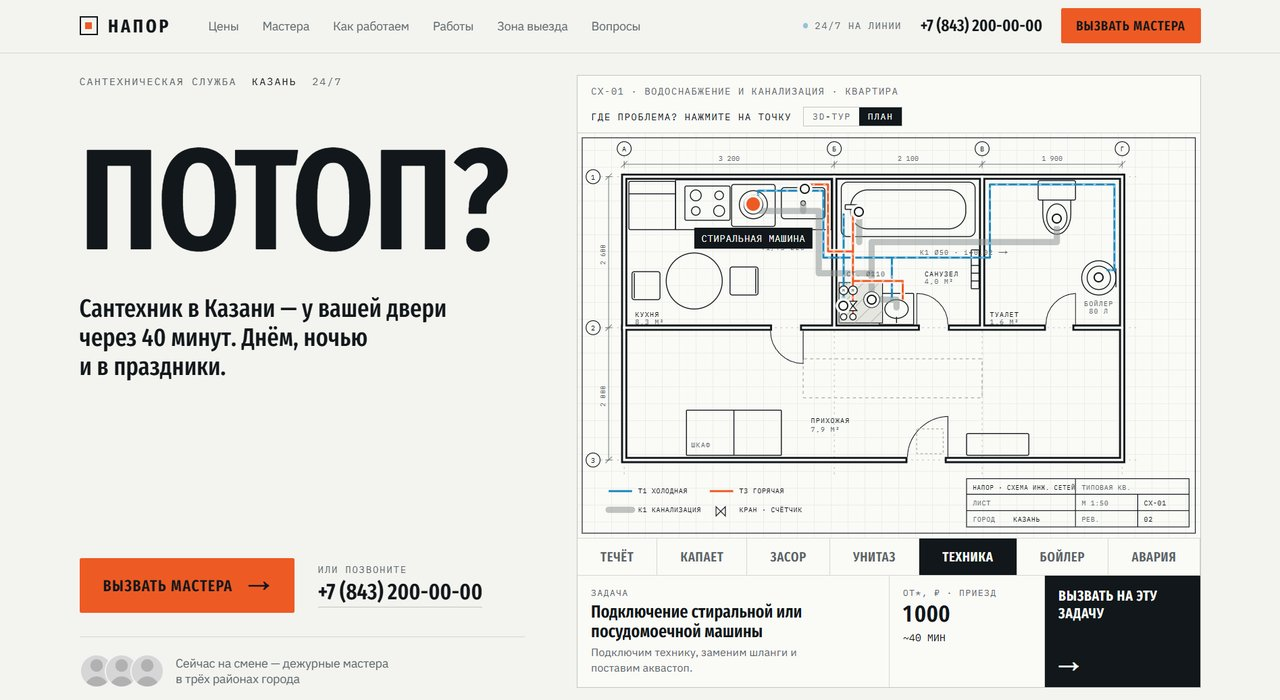
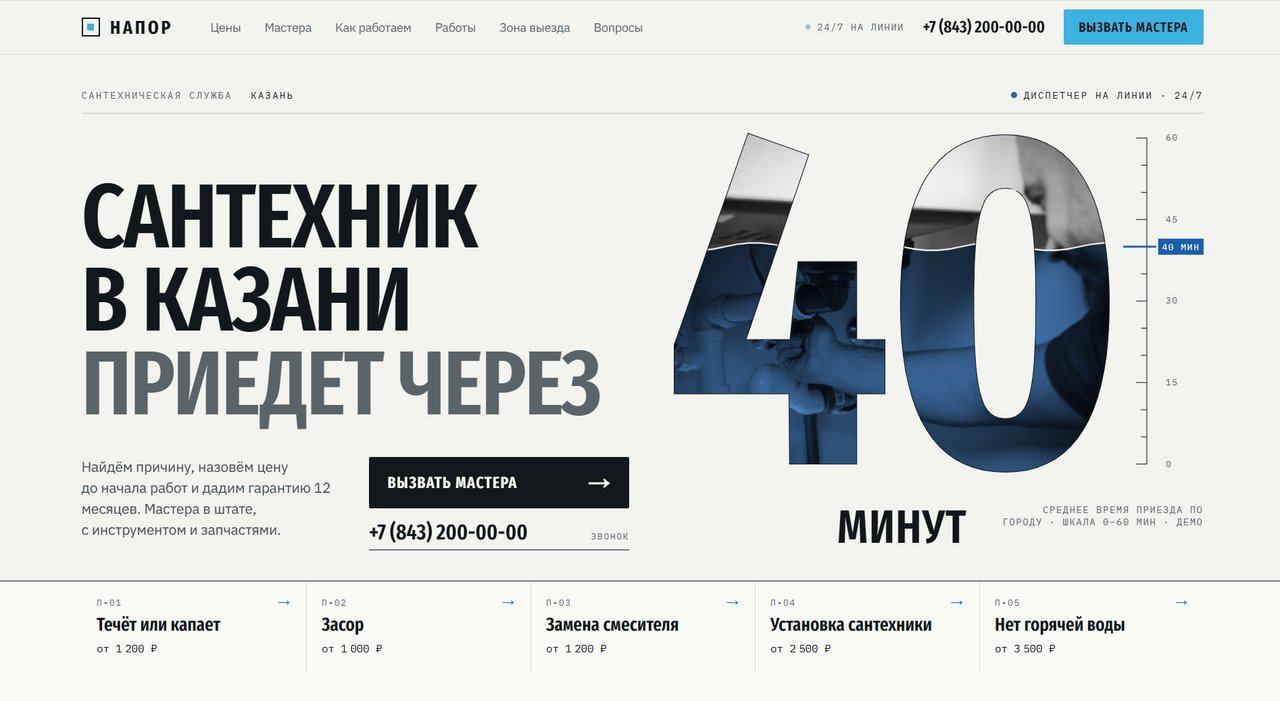
НАПОР: обновлены скриншоты сайта (новый дизайн, синий акцент)
Claude-Session: https://claude.ai/code/session_01Gv8t3d9DnmAjJjaxPY7btr

diff --git a/lib/data.ts b/lib/data.ts
@@ -102,9 +102,9 @@ const RAW_SITES: RawSite[] = [
     id: 'napor', title: 'НАПОР', niche: 'Сантехника', group: 'Услуги',
     description: 'Сайт аварийной сантехнической службы: 3D-план квартиры, прайс-диапазоны и вызов мастера за 40 минут.',
     tagline: 'Готовый сайт для сантехнической службы',
-    price: PRICES.ready.from, image: '/sites/napor/full.jpg', imageH: 6508, cover: '/sites/napor/cover.jpg', coverH: 700, demoUrl: 'https://napor-landing.vercel.app/', domain: 'napor-landing.vercel.app',
+    price: PRICES.ready.from, image: '/sites/napor/full.jpg', imageH: 10390, cover: '/sites/napor/cover.jpg', coverH: 701, demoUrl: 'https://napor-landing.vercel.app/', domain: 'napor-landing.vercel.app',
     preview: {
-      variant: 'split', bg: '#F3F3EF', ink: '#14171A', muted: '#4B5058', accent: '#F05A22', accentInk: '#FFFFFF',
+      variant: 'split', bg: '#F3F3EF', ink: '#14171A', muted: '#4B5058', accent: '#3BB1DF', accentInk: '#FFFFFF',
       panel: '#14171A', panelInk: '#FFFFFF', surface: '#FFFFFF', line: '#DDDDD6',
       brand: 'НАПОР', phone: '+7 (843) 200-00-00', nav: ['Услуги', 'Цены', 'О мастере', 'Контакты'],
       eyebrow: 'Сантехнические работы', headline: 'Сантехник на дом в день обращения',
